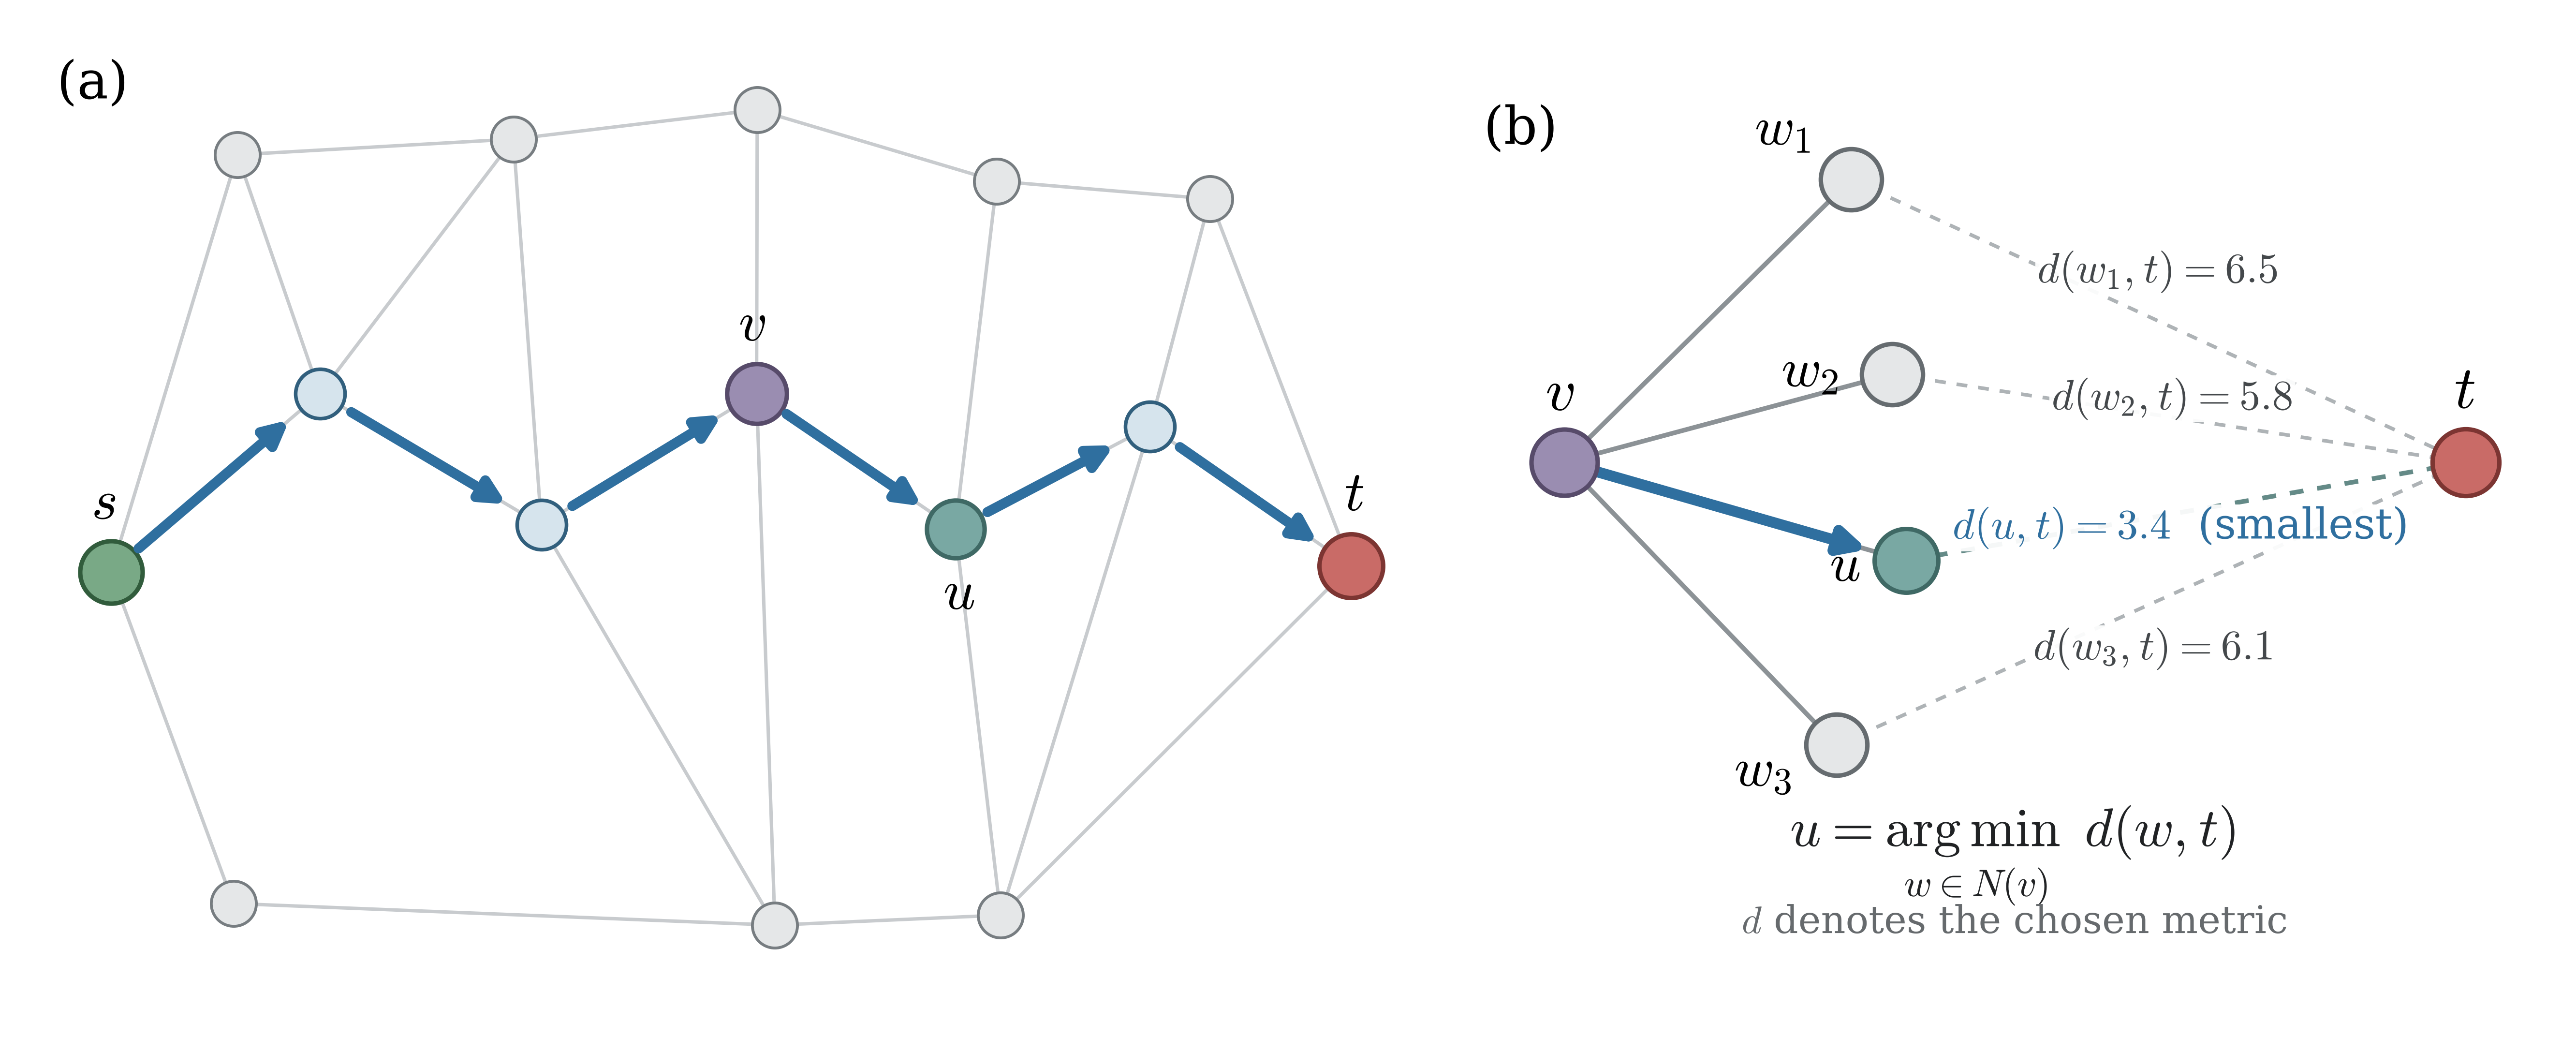
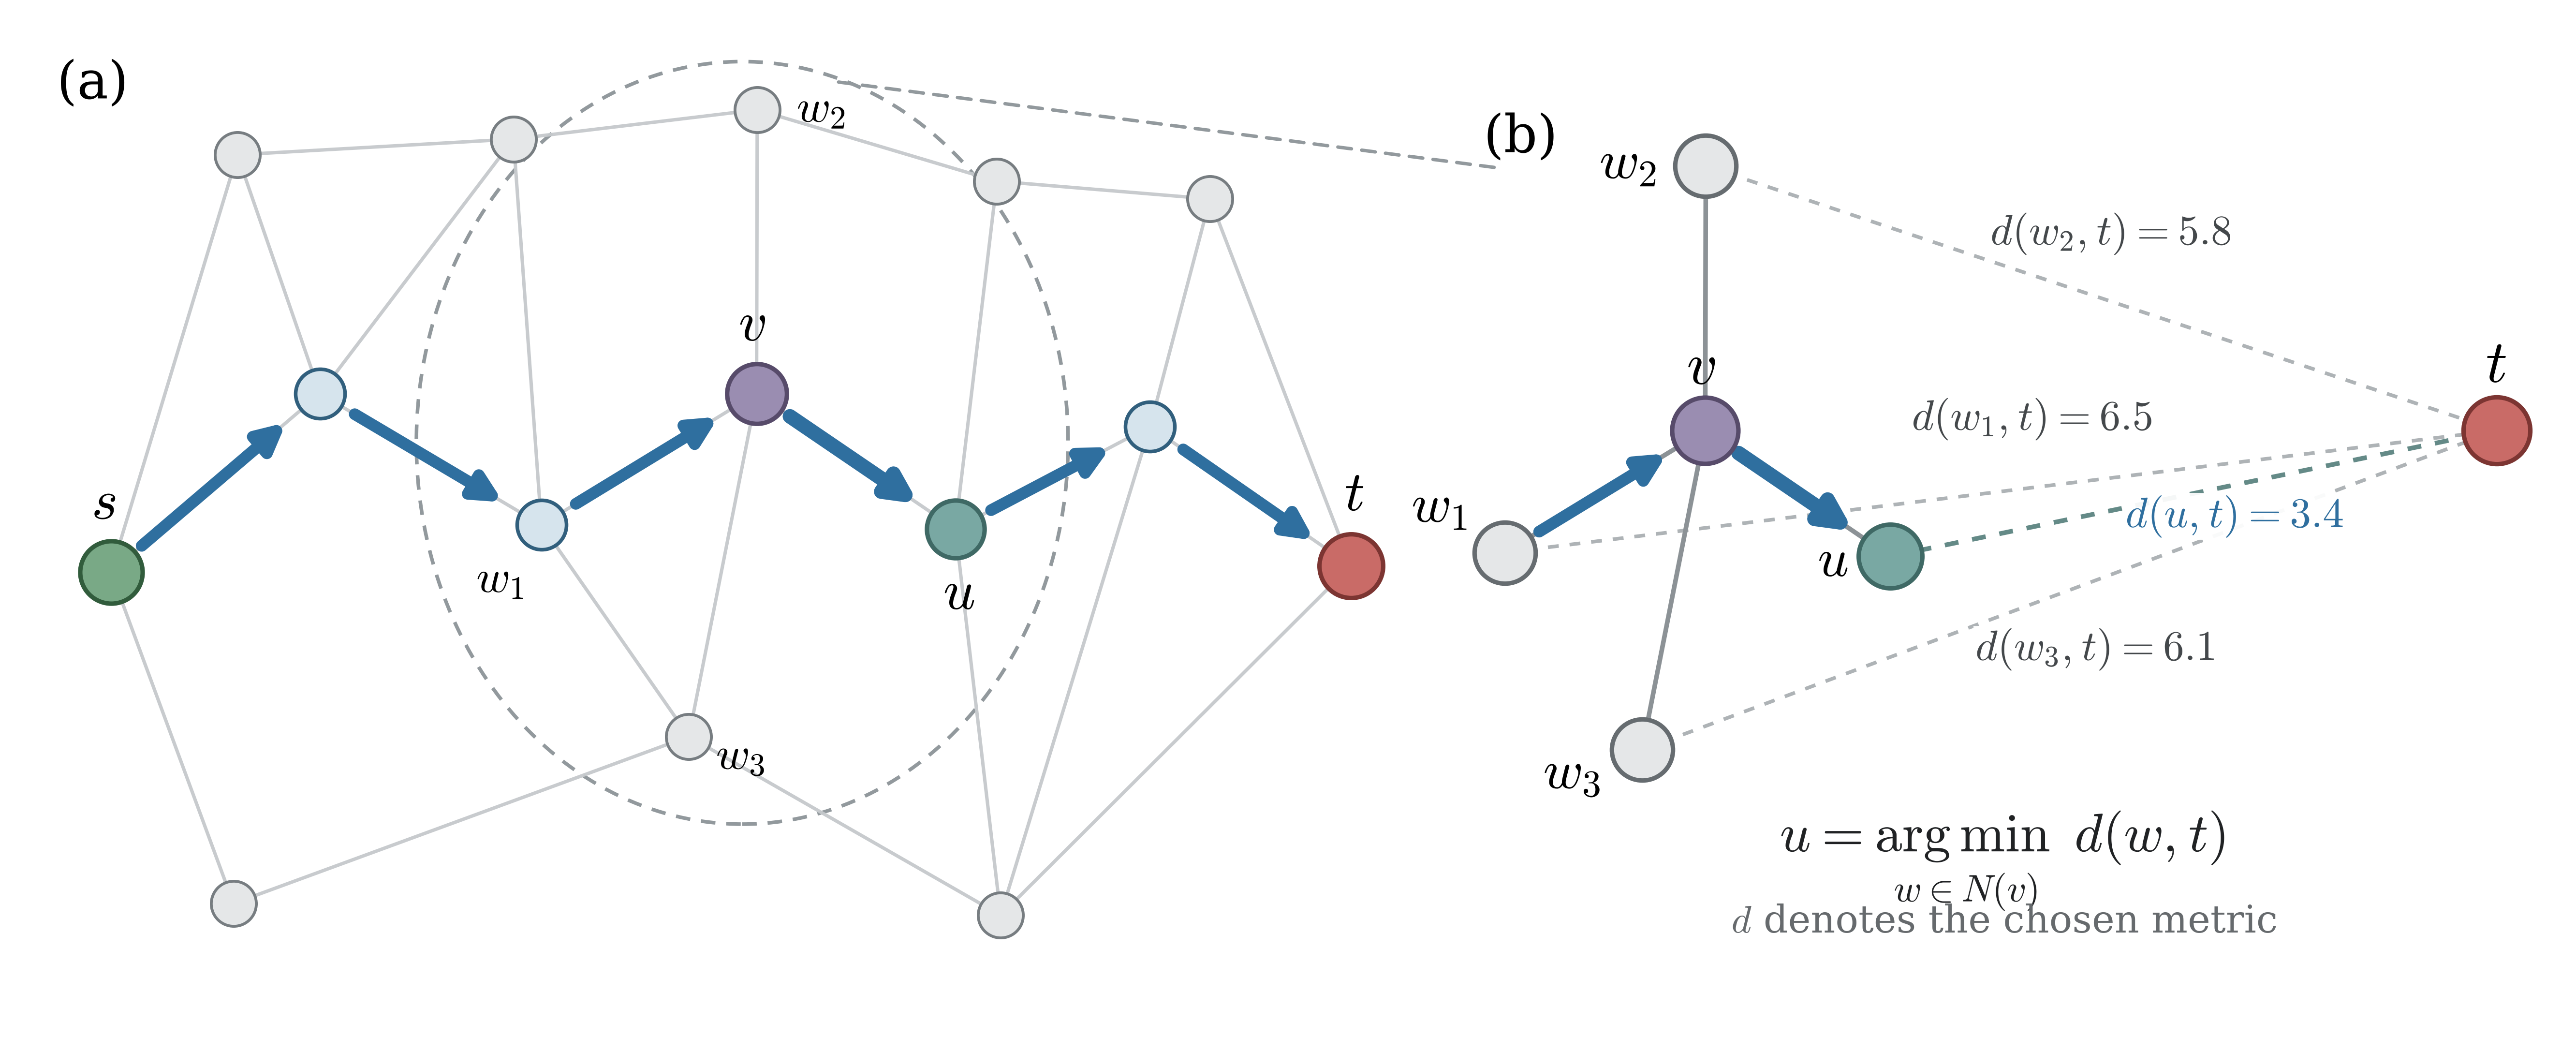
Polish greedy routing neighbourhood figure

diff --git a/figures/generate_greedy_routing_figure.py b/figures/generate_greedy_routing_figure.py
@@ -7,7 +7,7 @@ import matplotlib
 matplotlib.use("Agg")
 
 import matplotlib.pyplot as plt
-from matplotlib.patches import FancyArrowPatch
+from matplotlib.patches import ConnectionPatch, Ellipse, FancyArrowPatch
 import networkx as nx
 import numpy as np
 from PIL import Image
@@ -53,7 +53,7 @@ BASE_POSITIONS = {
     "b": (1.05, 4.62),
     "c": (2.35, 4.63),
     "w1": (3.58, 4.83),
-    "w2": (3.62, 0.83),
+    "w2": (3.20, 1.75),
     "g": (4.73, 4.47),
     "h": (4.78, 0.88),
     "i": (5.78, 4.38),
@@ -74,14 +74,6 @@ EXTRA_EDGES = [
 
 LOCAL_NEIGHBOURS = ["r2", "w1", "u", "w2"]
 LOCAL_LABELS = {"r2": r"$w_1$", "w1": r"$w_2$", "u": r"$u$", "w2": r"$w_3$"}
-LOCAL_POSITIONS = {
-    "v": (-1.25, 0.0),
-    "r2": (0.15, 1.38),
-    "w1": (0.35, 0.43),
-    "u": (0.42, -0.48),
-    "w2": (0.08, -1.38),
-    "t": (3.15, 0.0),
-}
 
 GREY_EDGE = "#c5c9cc"
 GREY_NODE = "#e5e7e8"
@@ -134,10 +126,38 @@ def validate_greedy_route(graph):
     return decisions
 
 
-def draw_arrow(ax, start, end, *, width=2.5, scale=12, zorder=5):
+def validate_local_decision(graph):
+    """Assert that u is the unique metric-minimising neighbour of v."""
+    neighbours = set(graph.neighbors("v"))
+    if neighbours != set(LOCAL_NEIGHBOURS):
+        raise ValueError(
+            f"Panel (b) neighbours {set(LOCAL_NEIGHBOURS)} do not match N(v)={neighbours}"
+        )
+    values = {node: METRIC_TO_TARGET[node] for node in neighbours}
+    if len(values.values()) != len(set(values.values())):
+        raise ValueError("The neighbours of v do not have strict metric values")
+    selected = min(values, key=values.__getitem__)
+    if selected != "u":
+        raise ValueError(f"u is not the unique closest neighbour of v; selected {selected}")
+    return values
+
+
+def build_local_positions(positions):
+    """Enlarge N(v) using the same relative coordinates as panel (a)."""
+    local_origin = np.array([-0.75, 0.18])
+    scale = 1.02
+    centre = positions["v"]
+    local = {"v": local_origin}
+    for node in LOCAL_NEIGHBOURS:
+        local[node] = local_origin + scale * (positions[node] - centre)
+    local["t"] = np.array([3.48, 0.18])
+    return local
+
+
+def draw_arrow(ax, start, end, *, width=2.9, scale=13.5, zorder=5):
     arrow = FancyArrowPatch(
         start, end, arrowstyle="-|>", mutation_scale=scale,
-        linewidth=width, color=BLUE, shrinkA=9, shrinkB=10, zorder=zorder,
+        linewidth=width, color=BLUE, shrinkA=10, shrinkB=11, zorder=zorder,
     )
     ax.add_patch(arrow)
 
@@ -147,7 +167,8 @@ def draw_panel_a(ax, graph, positions):
         graph, positions, edge_color=GREY_EDGE, width=0.85, alpha=0.95, ax=ax,
     )
     for start, end in ROUTE_EDGES:
-        draw_arrow(ax, positions[start], positions[end])
+        width = 3.6 if (start, end) == ("v", "u") else 2.9
+        draw_arrow(ax, positions[start], positions[end], width=width)
 
     ordinary = [node for node in graph if node not in ROUTE]
     route_nodes = [node for node in ROUTE if node not in {"s", "v", "u", "t"}]
@@ -181,6 +202,24 @@ def draw_panel_a(ax, graph, positions):
         ax.text(x + offset[0], y + offset[1], rf"${node}$",
                 ha="center", va="center", fontsize=14, zorder=8)
 
+    neighbour_offsets = {
+        "r2": (-0.19, -0.27),
+        "w1": (0.32, 0.00),
+        "w2": (0.26, -0.10),
+    }
+    for node in ["r2", "w1", "w2"]:
+        x, y = positions[node]
+        dx, dy = neighbour_offsets[node]
+        ax.text(x + dx, y + dy, LOCAL_LABELS[node],
+                ha="center", va="center", fontsize=11.5, zorder=8)
+
+    neighbourhood_outline = Ellipse(
+        (3.48, 3.18), width=3.18, height=3.72,
+        fill=False, edgecolor="#92999d", linewidth=0.9,
+        linestyle=(0, (4, 3)), zorder=0,
+    )
+    ax.add_patch(neighbourhood_outline)
+
     ax.text(0.02, 0.97, r"(a)", transform=ax.transAxes,
             ha="left", va="top", fontsize=13)
     ax.set_xlim(0.0, 6.78)
@@ -189,18 +228,19 @@ def draw_panel_a(ax, graph, positions):
     ax.axis("off")
 
 
-def draw_local_node(ax, node, colour, edgecolour, size=230):
-    x, y = LOCAL_POSITIONS[node]
+def draw_local_node(ax, local_positions, node, colour, edgecolour, size=230):
+    x, y = local_positions[node]
     ax.scatter(x, y, s=size, facecolor=colour, edgecolor=edgecolour,
                linewidth=1.1, zorder=5)
 
 
-def draw_panel_b(ax):
-    v_position = LOCAL_POSITIONS["v"]
-    t_position = LOCAL_POSITIONS["t"]
+def draw_panel_b(ax, positions):
+    local_positions = build_local_positions(positions)
+    v_position = local_positions["v"]
+    t_position = local_positions["t"]
 
     for neighbour in LOCAL_NEIGHBOURS:
-        point = LOCAL_POSITIONS[neighbour]
+        point = local_positions[neighbour]
         ax.plot(
             [v_position[0], point[0]], [v_position[1], point[1]],
             color="#8c9296", linewidth=1.15, zorder=1,
@@ -212,14 +252,15 @@ def draw_panel_b(ax):
             linestyle=(0, (3, 3)), zorder=1,
         )
 
-    draw_arrow(ax, v_position, LOCAL_POSITIONS["u"], width=2.7, scale=13, zorder=4)
+    draw_arrow(ax, local_positions["r2"], v_position, width=2.9, scale=13.5, zorder=4)
+    draw_arrow(ax, v_position, local_positions["u"], width=3.6, scale=14.5, zorder=4)
 
-    draw_local_node(ax, "v", V_COLOUR, "#574b6a", size=270)
-    draw_local_node(ax, "r2", GREY_NODE, "#666c70")
-    draw_local_node(ax, "w1", GREY_NODE, "#666c70")
-    draw_local_node(ax, "w2", GREY_NODE, "#666c70")
-    draw_local_node(ax, "u", U_COLOUR, "#3f6965", size=250)
-    draw_local_node(ax, "t", RED, "#7c3532", size=275)
+    draw_local_node(ax, local_positions, "v", V_COLOUR, "#574b6a", size=270)
+    draw_local_node(ax, local_positions, "r2", GREY_NODE, "#666c70")
+    draw_local_node(ax, local_positions, "w1", GREY_NODE, "#666c70")
+    draw_local_node(ax, local_positions, "w2", GREY_NODE, "#666c70")
+    draw_local_node(ax, local_positions, "u", U_COLOUR, "#3f6965", size=250)
+    draw_local_node(ax, local_positions, "t", RED, "#7c3532", size=275)
 
     ax.text(v_position[0] - 0.02, v_position[1] + 0.33, r"$v$",
             ha="center", va="center", fontsize=15, zorder=7)
@@ -232,16 +273,16 @@ def draw_panel_b(ax):
         "w2": (-0.20, -0.13),
     }
     for node, label in LOCAL_LABELS.items():
-        point = LOCAL_POSITIONS[node]
+        point = local_positions[node]
         offset = local_label_offsets[node]
         ax.text(point[0] + offset[0], point[1] + offset[1], label,
                 ha="right", va="center", fontsize=13.5, zorder=7)
 
     distance_labels = {
-        "r2": (1.65, 0.93, r"$d(w_1,t)=6.5$"),
-        "w1": (1.72, 0.31, r"$d(w_2,t)=5.8$"),
-        "u": (1.76, -0.32, r"$d(u,t)=3.4$  (smallest)"),
-        "w2": (1.63, -0.91, r"$d(w_3,t)=6.1$"),
+        "r2": (1.00, 0.24, r"$d(w_1,t)=6.5$"),
+        "w1": (1.42, 1.23, r"$d(w_2,t)=5.8$"),
+        "u": (2.08, -0.28, r"$d(u,t)=3.4$"),
+        "w2": (1.34, -0.99, r"$d(w_3,t)=6.1$"),
     }
     for node, (x, y, text) in distance_labels.items():
         ax.text(
@@ -252,16 +293,16 @@ def draw_panel_b(ax):
         )
 
     ax.text(
-        0.95, -1.92,
+        0.85, -2.12,
         r"$u=\underset{w\in N(v)}{\arg\min}\; d(w,t)$",
         ha="center", va="center", fontsize=13.5, color="#202224",
     )
-    ax.text(0.95, -2.25, r"$d$ denotes the chosen metric",
+    ax.text(0.85, -2.45, r"$d$ denotes the chosen metric",
             ha="center", va="center", fontsize=9.5, color="#666a6d")
     ax.text(0.02, 0.97, r"(b)", transform=ax.transAxes,
             ha="left", va="top", fontsize=13)
-    ax.set_xlim(-1.75, 3.55)
-    ax.set_ylim(-2.50, 1.88)
+    ax.set_xlim(-2.05, 3.75)
+    ax.set_ylim(-2.68, 2.02)
     ax.set_aspect("equal", adjustable="box")
     ax.axis("off")
 
@@ -286,7 +327,15 @@ def draw_figure(graph, positions):
     ax_route.set_facecolor("white")
     ax_local.set_facecolor("white")
     draw_panel_a(ax_route, graph, positions)
-    draw_panel_b(ax_local)
+    draw_panel_b(ax_local, positions)
+
+    callout = ConnectionPatch(
+        xyA=(3.95, 4.94), coordsA=ax_route.transData,
+        xyB=(-1.84, 1.58), coordsB=ax_local.transData,
+        color="#92999d", linewidth=0.85, linestyle=(0, (4, 3)),
+        zorder=0, clip_on=False,
+    )
+    fig.add_artist(callout)
 
     fig.savefig(OUTPUT_PNG, dpi=600, bbox_inches="tight", pad_inches=0.10, facecolor="white")
     fig.savefig(OUTPUT_PDF, bbox_inches="tight", pad_inches=0.10, facecolor="white")
@@ -300,6 +349,7 @@ def main():
     positions = build_positions()
     graph = build_graph()
     decisions = validate_greedy_route(graph)
+    local_values = validate_local_decision(graph)
     draw_figure(graph, positions)
 
     for current, selected, value, degree in decisions:
@@ -308,6 +358,10 @@ def main():
             f"strict minimum d(w,t)={value:.1f} among {degree} neighbours"
         )
     print(f"Route reaches t in {len(ROUTE_EDGES)} steps without cycling")
+    print(
+        "Local decision at v verified: "
+        + ", ".join(f"d({node},t)={value:.1f}" for node, value in sorted(local_values.items()))
+    )
     print(f"Saved high-resolution figure to: {OUTPUT_PNG}")
     print(f"Saved vector figure to: {OUTPUT_PDF}")
 